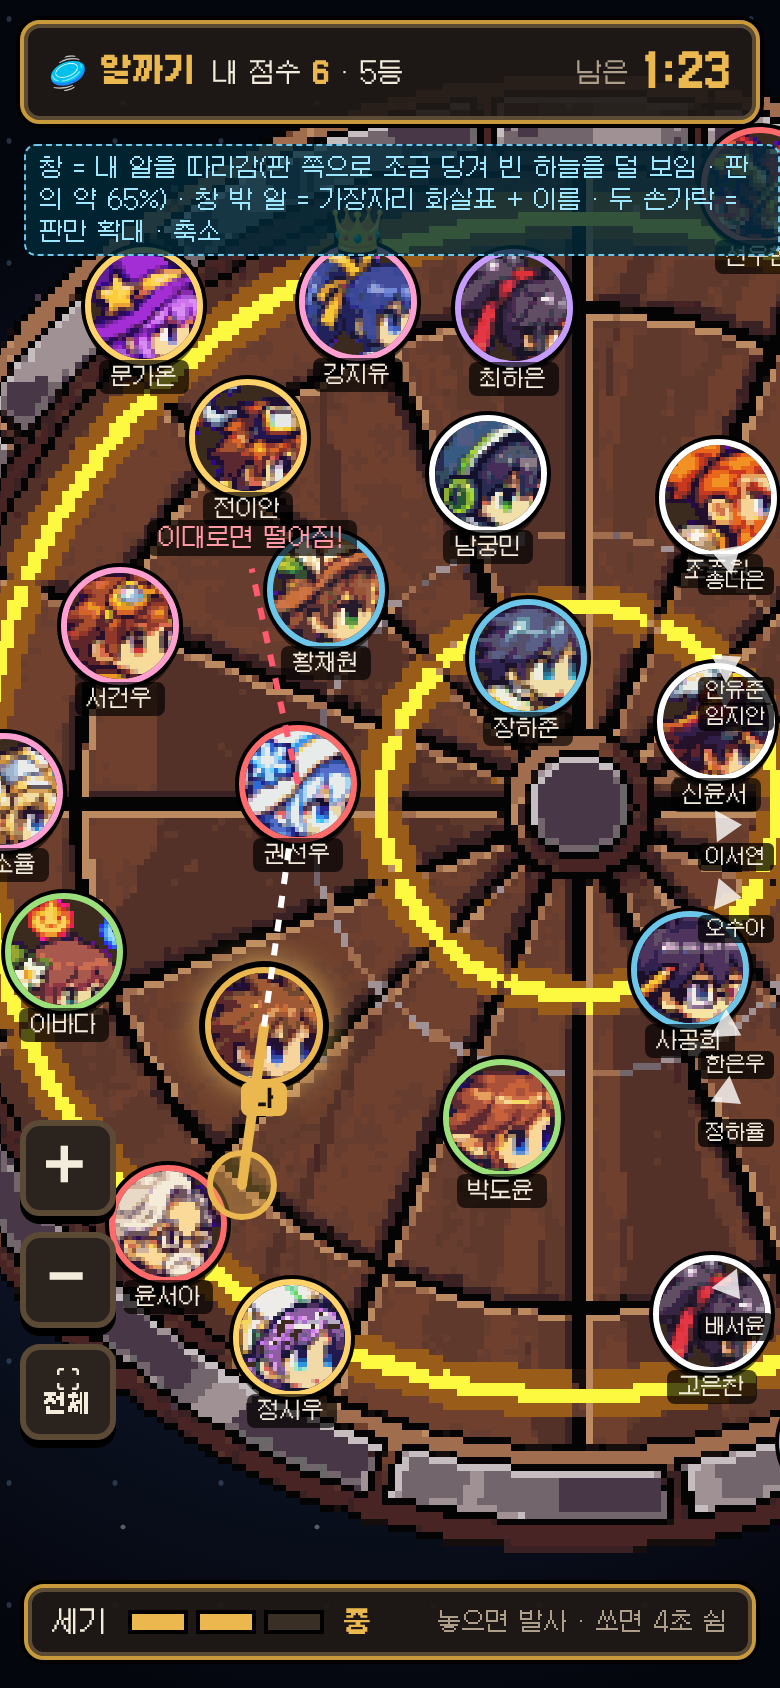
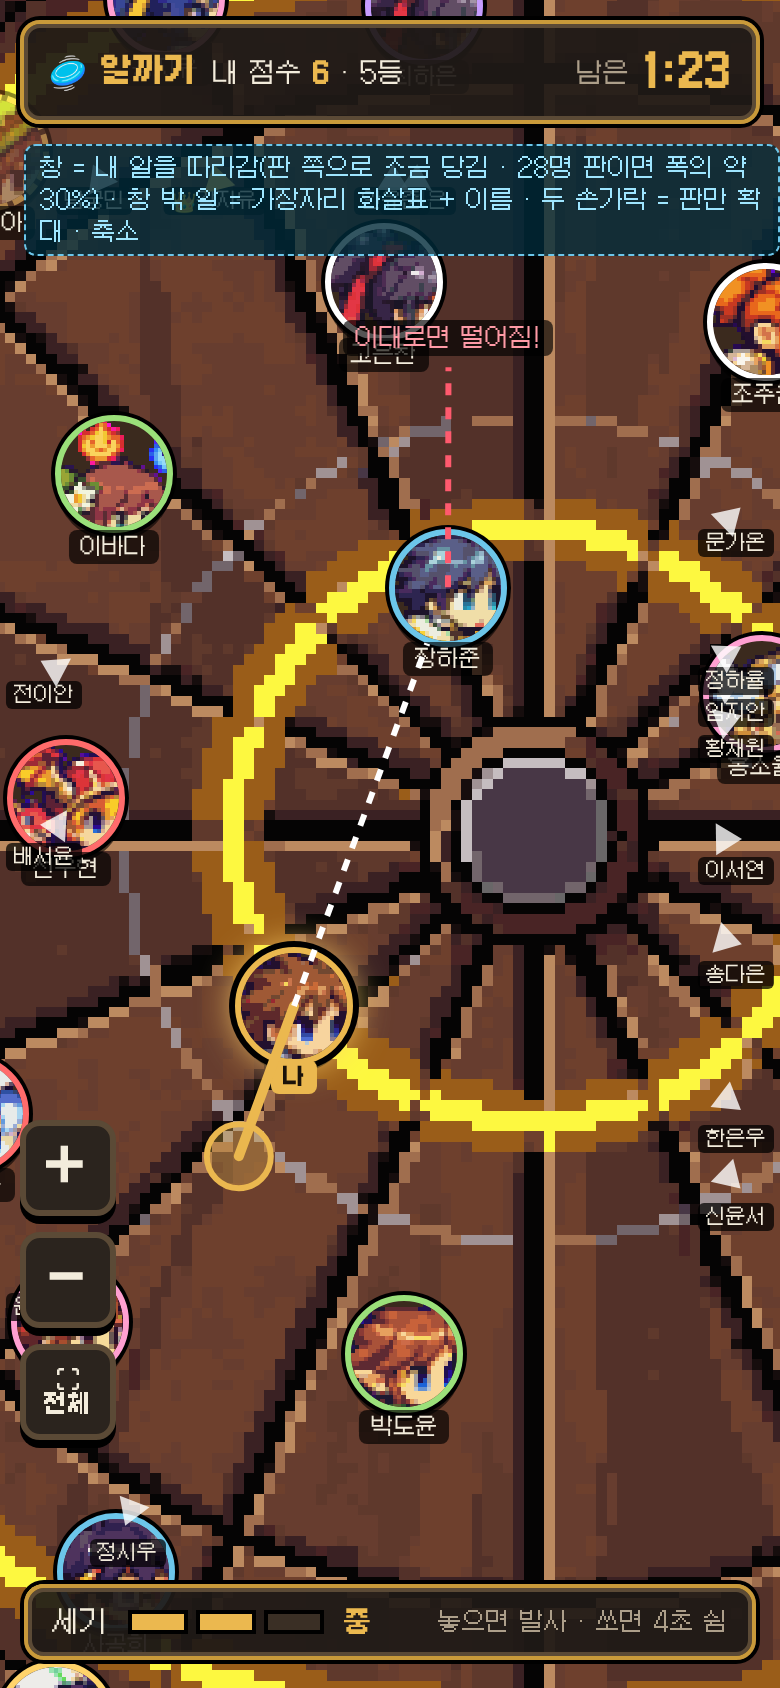
🎨 알까기 시안 확정 값: 판 2배 · 출발 원 0.5 · 자리 무작위 (11/24)
Claude-Session: https://claude.ai/code/session_014JJv1ioE1uuu1uLzo26R9z

diff --git a/docs/handoff/minigame-mock/mock.html b/docs/handoff/minigame-mock/mock.html
@@ -166,9 +166,10 @@ S['ajae-ph-2'] = () => `<div class="screen ph"><div class="rays"></div><div clas
 // ───────── 🥏 알까기 v2 (11/24 선생님 피드백: 판 크게 · 알 크게 + 이름 · TV = 판 전체 · 폰 = 내 알 따라가는 창 + 확대 · 축소)
 // 판 단위: 알 반지름 0.9 (설계 v1 0.7 → 0.9 제안) · 판 반지름 = max(5.5, 2 + 1.2√n) 그대로 · 28명 = 8.3
 // 제안 C: 판 반지름 = 설계 공식 그대로 · 알 반지름 = 0.9 를 넘지 않고 출발 원(판의 0.8 안)에 n명이 같은 간격으로 들어가는 크기
-const N28 = 28, RING_GAP = 0.3, BR = Math.max(5.5, 2 + 1.2 * Math.sqrt(N28)), ER = Math.min(0.9, (2 * Math.PI * 0.8 * BR / N28 - RING_GAP) / 2);
-const RHO = Math.max(0.6 * BR, N28 * (2 * ER + RING_GAP) / (2 * Math.PI)); // 출발 원 반지름
-const START = Array.from({ length: N28 }, (_, i) => { const a = -Math.PI / 2 + 2 * Math.PI * i / N28; return [RHO * Math.cos(a), RHO * Math.sin(a)]; });
+// 11/24 선생님 확정: 판 반지름 = 2 × 설계 공식 · 출발 원 = 판 반지름의 0.5 · 알 = min(0.9, 그 원에 n명 같은 간격) · 자리 = 무작위
+const N28 = 28, RING_GAP = 0.3, BR = 2 * Math.max(5.5, 2 + 1.2 * Math.sqrt(N28)), RHO = 0.5 * BR, ER = Math.min(0.9, (2 * Math.PI * RHO / N28 - RING_GAP) / 2);
+const PERM = (() => { let s = 11; const r = () => (s = (s * 16807) % 2147483647) / 2147483647; const a = Array.from({ length: N28 }, (_, i) => i); for (let i = a.length - 1; i > 0; i--) { const j = Math.floor(r() * (i + 1)); [a[i], a[j]] = [a[j], a[i]]; } return a; })(); // 출발 자리 무작위
+const START = Array.from({ length: N28 }, (_, i) => { const a = -Math.PI / 2 + 2 * Math.PI * PERM[i] / N28; return [RHO * Math.cos(a), RHO * Math.sin(a)]; });
 const NM2 = NM.concat(['정하율','문가온','배서윤','고은찬']);
 const ALK_RAND = (() => { let s = 7; const rnd = () => (s = (s * 16807) % 2147483647) / 2147483647; const P = [[-3.2, 2.2]];
   while (P.length < N28) { const a = rnd() * 6.283, r = Math.sqrt(rnd()) * (BR - 1.3), x = Math.cos(a) * r, y = Math.sin(a) * r;
@@ -253,7 +254,7 @@ S['alk-ph-1'] = () => { const sc = 59 / (2 * ER), [mx, my] = ALK[ME], cxu = mx *
  ${zoomUI({ top: 560 })}
  <div class="box" style="position:absolute;left:12px;right:12px;bottom:14px;padding:8px 12px;display:flex;align-items:center;gap:10px;font-size:14px;z-index:3">
   <span>세기</span><div style="display:flex;gap:4px">${[1,1,0].map(v=>`<div style="width:30px;height:12px;border:2px solid #000;background:${v?'#ebb84f':'#3a2f25'}"></div>`).join('')}</div><b style="color:var(--gold)">중</b><span class="sp"></span><span style="color:var(--muted);font-size:12px">놓으면 발사 · 쏘면 4초 쉼</span></div>
- <div class="note" style="left:12px;top:72px;z-index:4">창 = 내 알을 따라감(판 쪽으로 조금 당겨 빈 하늘을 덜 보임 · 판의 약 65%) · 창 밖 알 = 가장자리 화살표 + 이름 · 두 손가락 = 판만 확대 · 축소</div>
+ <div class="note" style="left:12px;top:72px;z-index:4">창 = 내 알을 따라감(판 쪽으로 조금 당김 · 28명 판이면 폭의 약 30%) · 창 밖 알 = 가장자리 화살표 + 이름 · 두 손가락 = 판만 확대 · 축소</div>
 </div>`; };
 S['alk-ph-2'] = () => { const sc = 390 / (BR * 2.25), ox = 195, oy = 430; return `<div class="screen ph"><div class="abyss"></div>
  ${alkDraw(ox, oy, sc, { fs: 9 })}

diff --git a/docs/handoff/minigame-mock/README.md b/docs/handoff/minigame-mock/README.md
@@ -29,3 +29,12 @@
 - C 의 출발 원: 8명 = 판의 0.6(3.3) · 12명 0.65 · 20 ~ 28명 0.8(가장자리까지 알 ≈ 2.7개). 같은 간격 = 360° ÷ n · 「나」 = 맨 위부터 번호 순(시안) — 순서는 ⏳(번호 · 무작위).
 - 폰 따라가기 창 = 알 지름을 59px 로 맞춤(28명이면 판의 약 45% 보임) · ⛶ 전체 = 판 전체.
 - 시안: alk-tv-start.png(출발 원 · 점선) · alk-tv.png(진행 중) · alk-ph-1 ~ 3 = C 값으로 다시 찍음.
+
+## 🥏 확정 값 (11/24 선생님 · 머리 방 전달) — 시안 alk-tv-start · alk-tv · alk-ph-1 다시 찍음
+
+- 판 반지름 = **2 × 설계 공식** = 2 × max(5.5, 2 + 1.2√n) → 28명 16.7
+- 출발 원 = **판 반지름의 0.5** (28명 8.35) · 같은 간격 360° ÷ n · **자리 = 무작위**
+- 알 반지름 = **min(0.9, 그 원에 n명이 같은 간격으로 들어가는 크기)** = min(0.9, (2π × 0.5R ÷ n − 0.3) ÷ 2) → 28명 0.79
+- 되살아남 = 같은 원 위 · 다른 알과 가장 먼 자리
+- ⚠ 화면: 판 전체를 보이는 TV 에서 **28명 판 알 지름 ≈ 28px**(판이 두 배라 알이 화면에서 절반) — 얼굴은 작게 보임 · 폰 따라가기 창은 알 59px 그대로(폭에 판의 약 30%)
+- ⚠ 판이 두 배면 세기 3단(혼자 미끄러지는 거리 2.7 · 6.7 · 12.5)으로는 가운데에서 가장자리까지(16.7) 한 번에 못 밀어냄 → 떨어뜨리기가 확 줄 수 있음 · 모의 실험 · 세기 값은 설계 방 · 손발 확인
